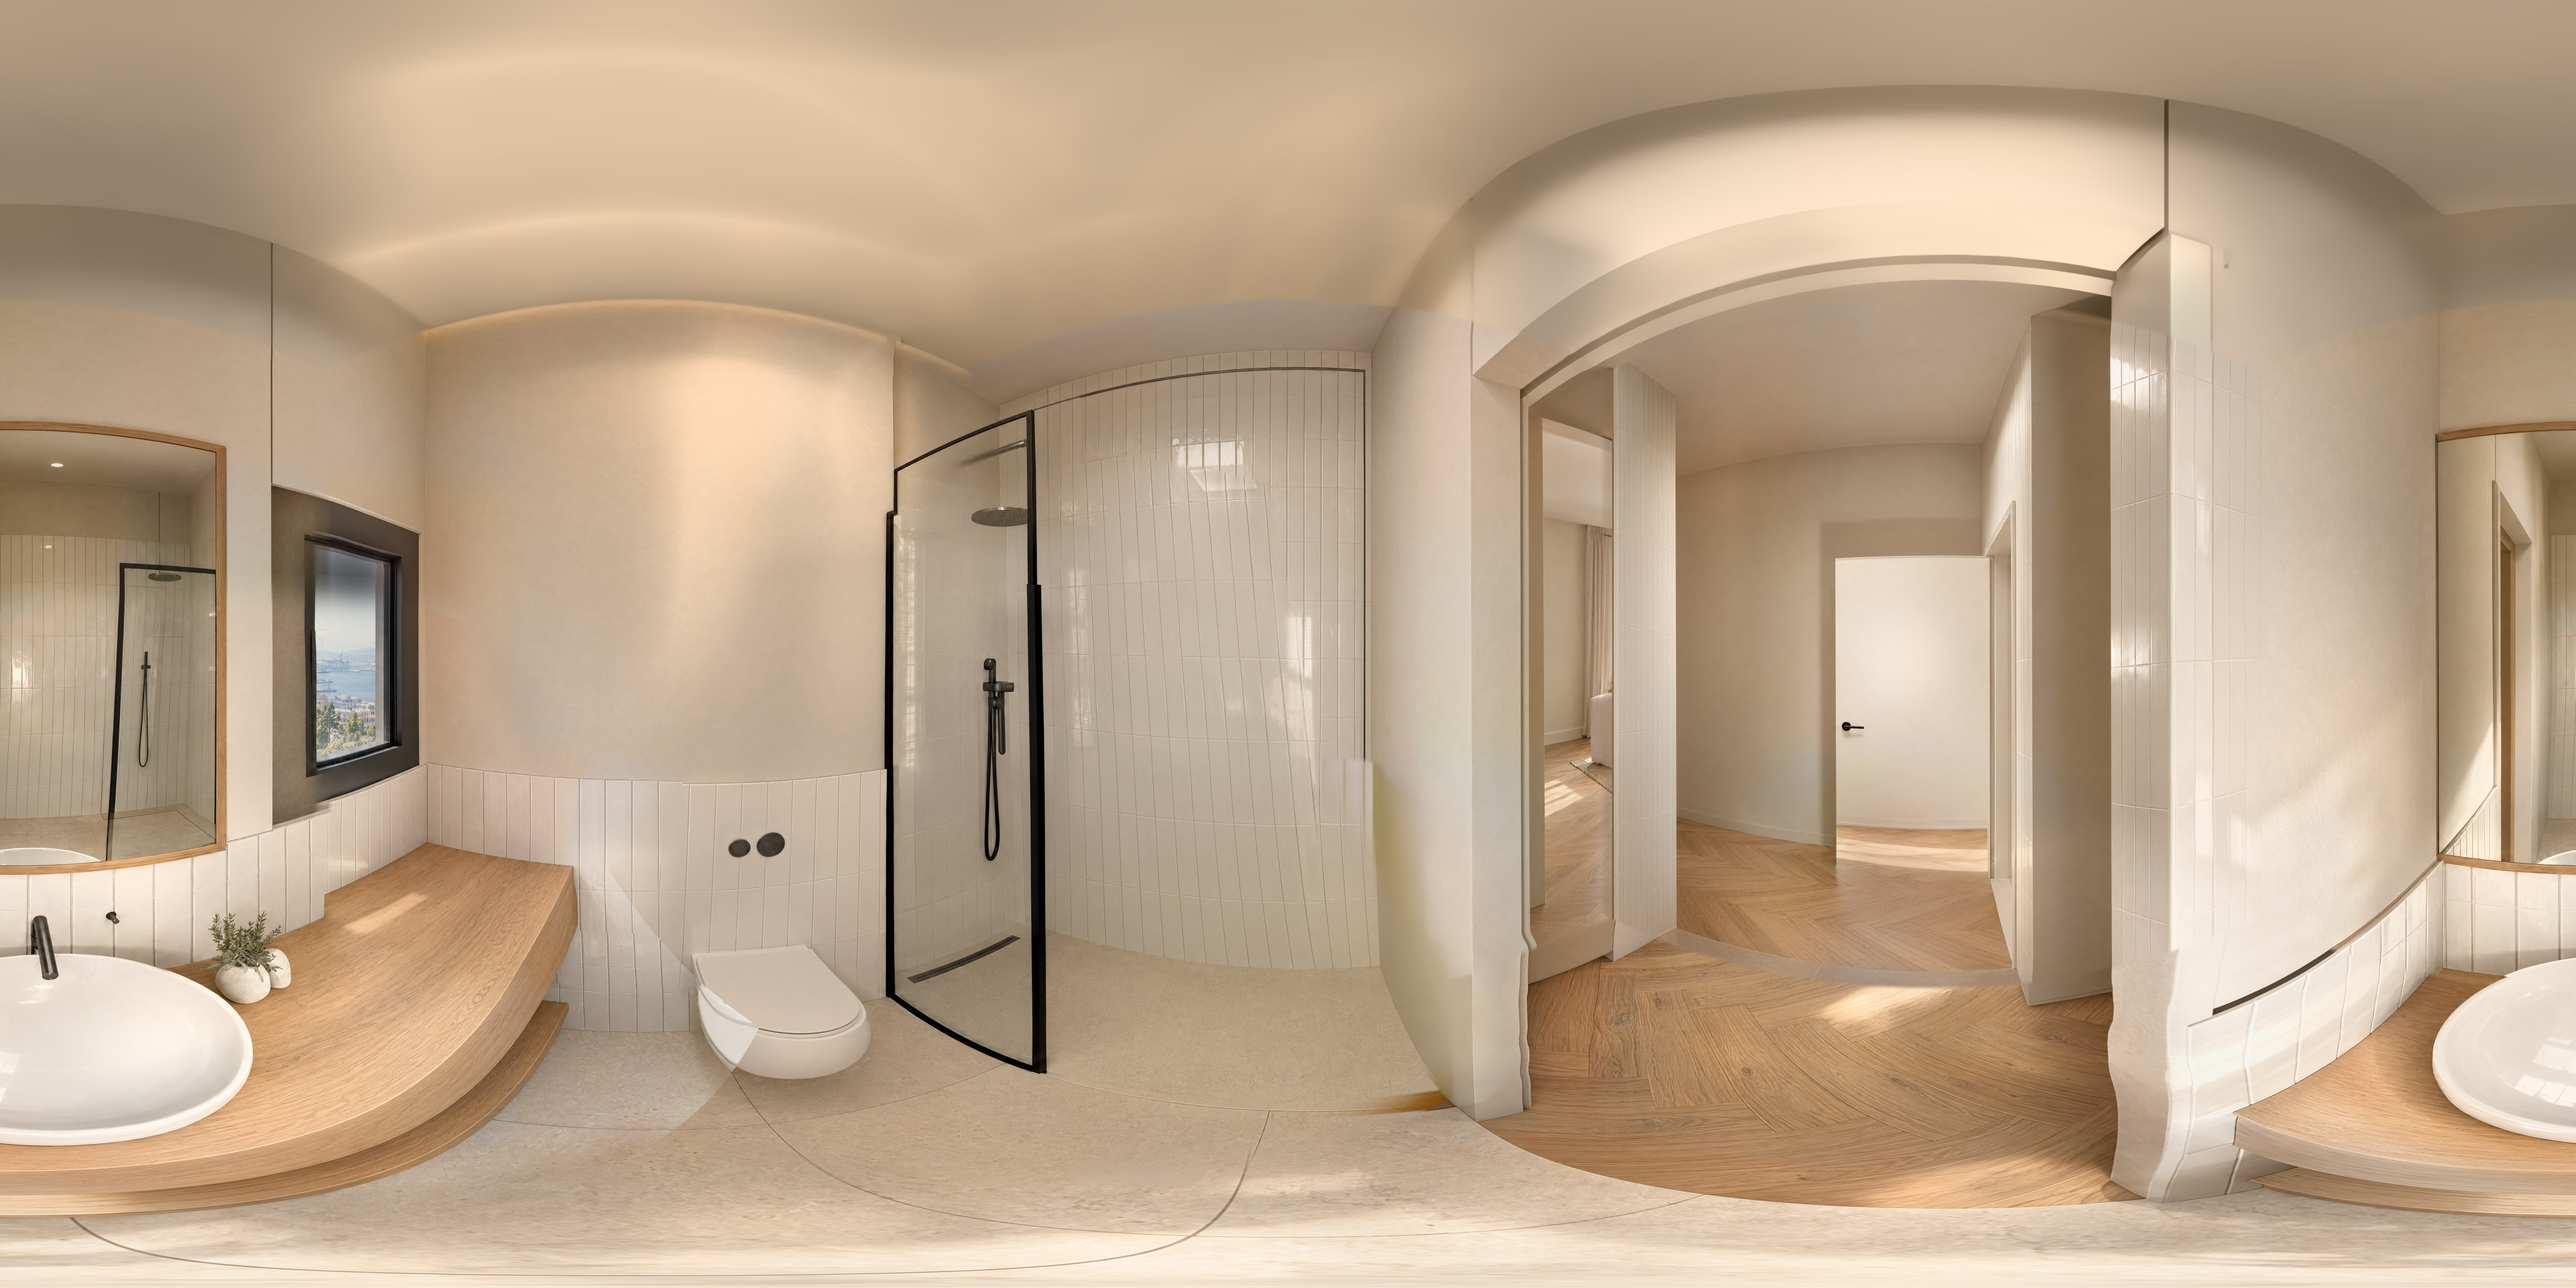
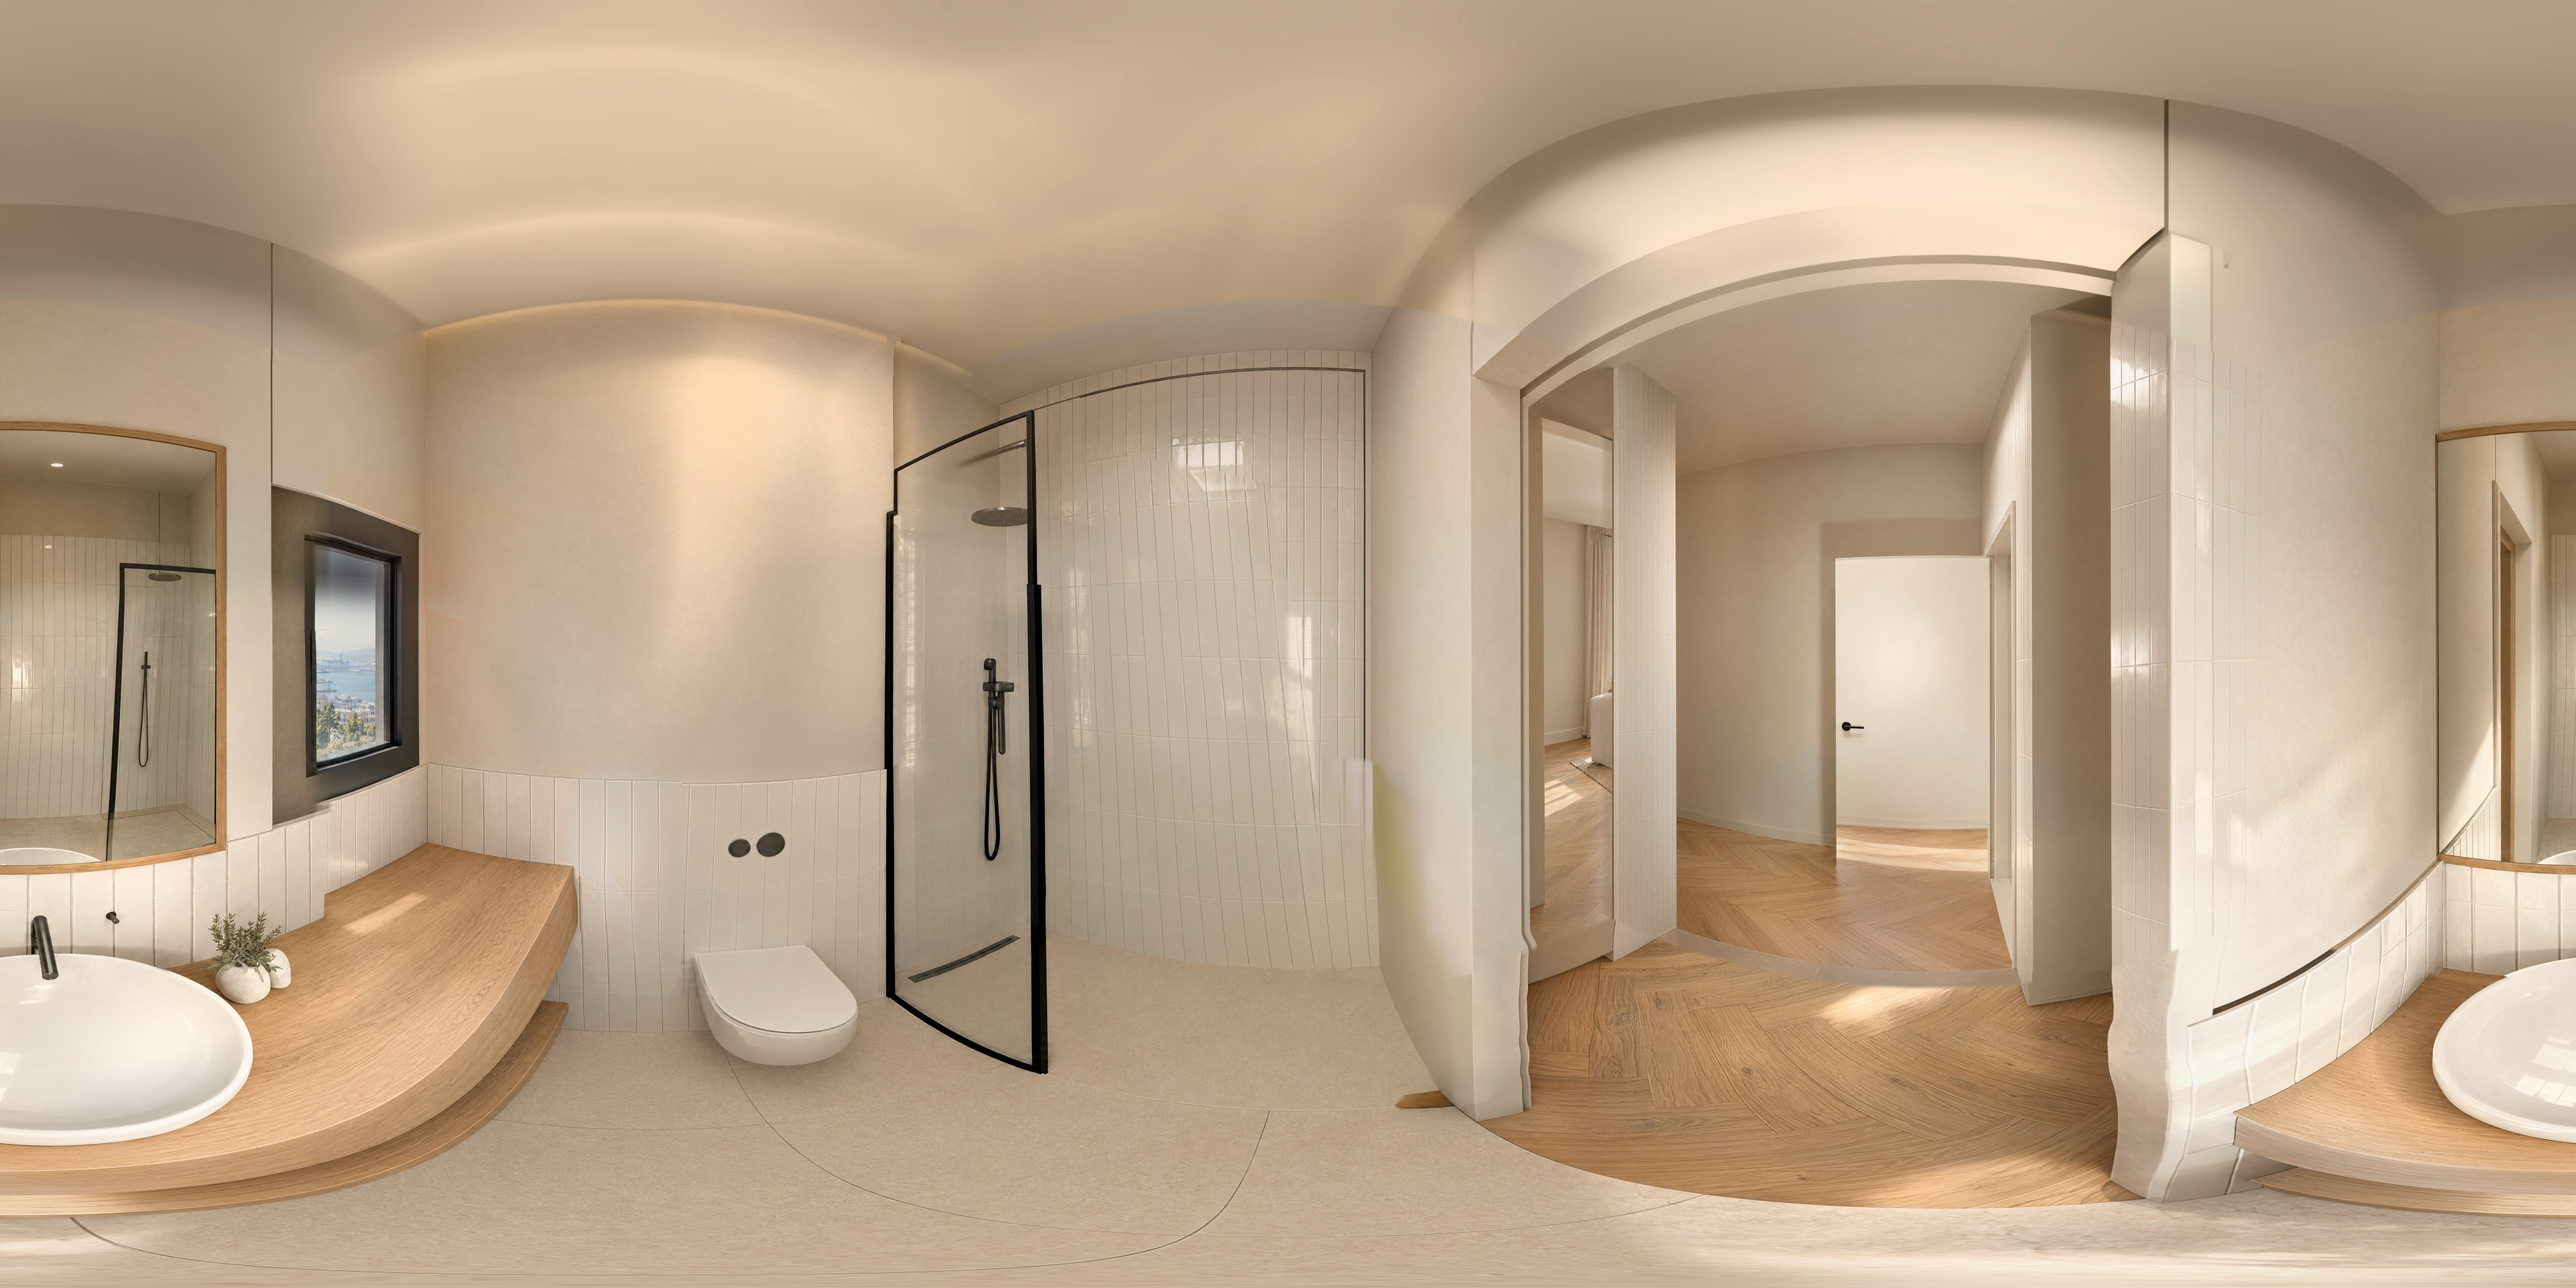
Web edition 919739d (v2.0.144): v2.0.144

diff --git a/sw.js b/sw.js
@@ -1,4 +1,4 @@
-const V = 'mz-472ca0f-2026-11-10-7e52b025';
+const V = 'mz-919739d-2026-11-10-017624fe';
 const SHELL = ['./', './index.html', './manifest.webmanifest', './pwa/icon-192.png', './pwa/icon-512.png', './pwa/apple-touch-icon.png'];
 self.addEventListener('install', (e) => { e.waitUntil(caches.open(V).then((c) => c.addAll(SHELL)).then(() => self.skipWaiting())); });
 self.addEventListener('activate', (e) => {
